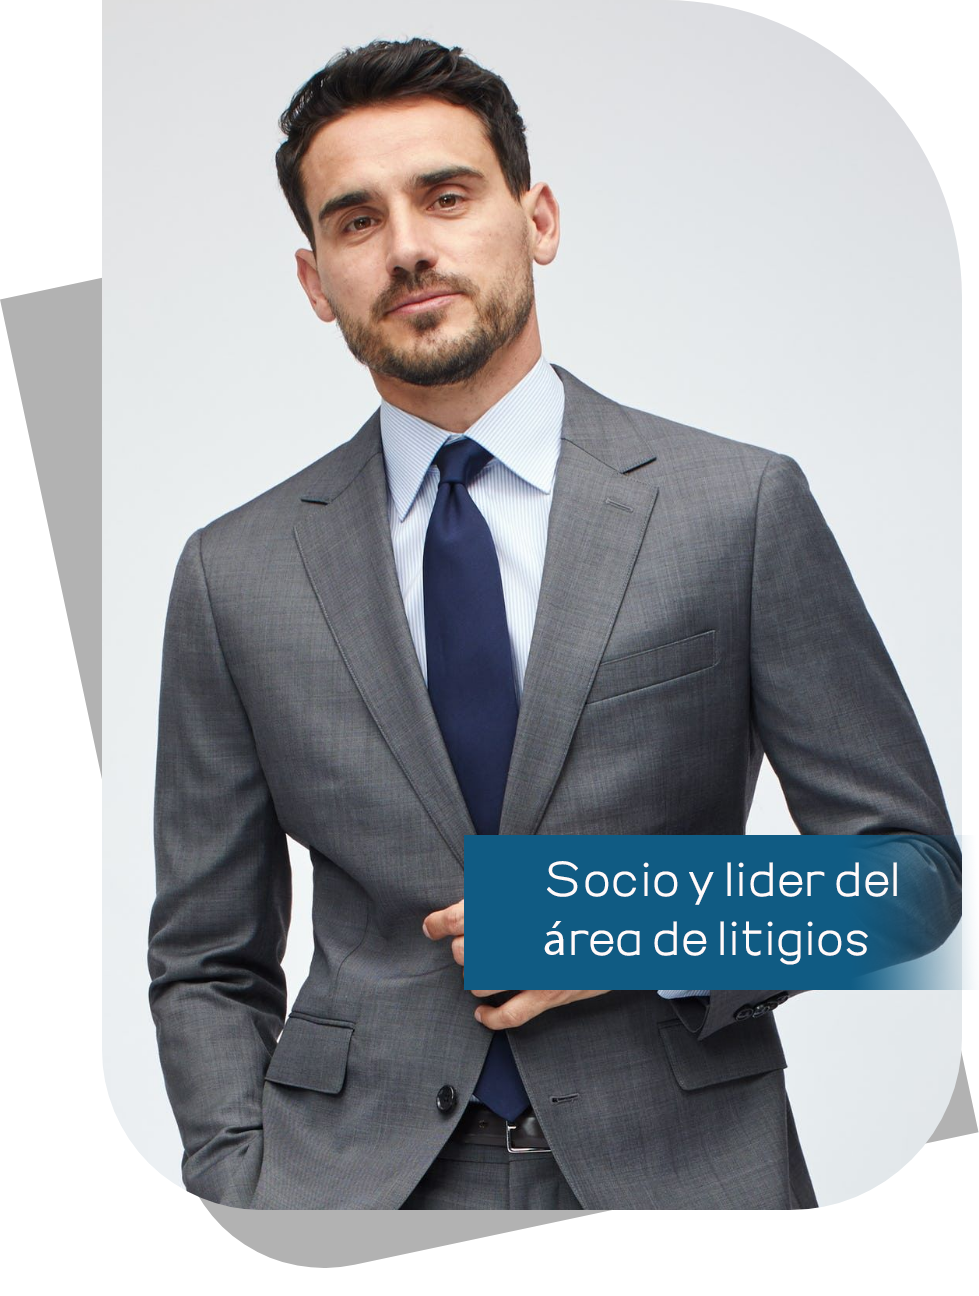
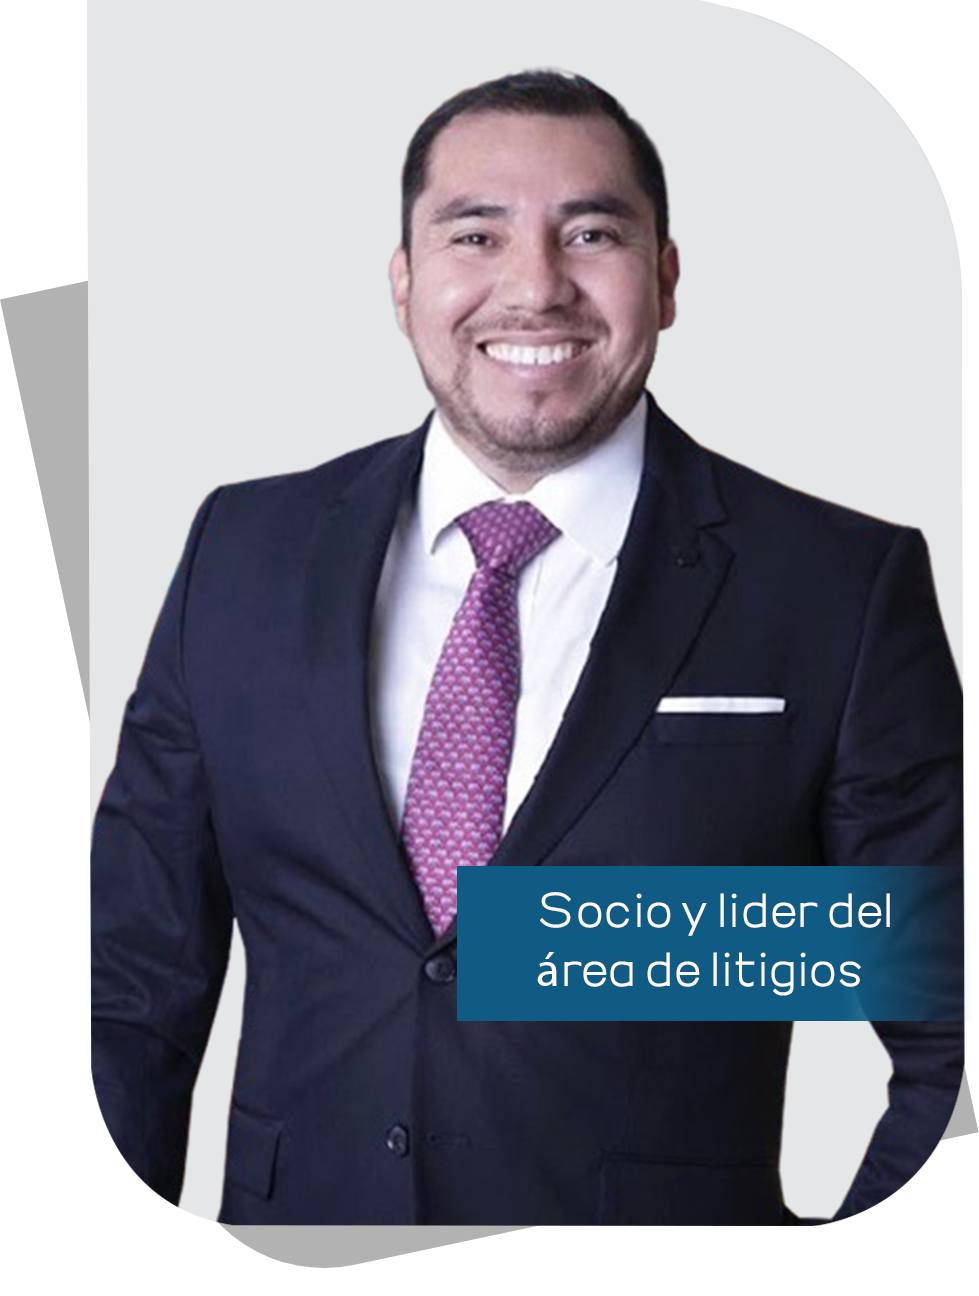
nuevas imagenes

diff --git a/src/app/layout/componentes/carousel-owl-2/carousel-owl-2.component.html b/src/app/layout/componentes/carousel-owl-2/carousel-owl-2.component.html
@@ -1,17 +1,19 @@
 <owl-carousel-o [options]="customOptions">
   <ng-template carouselSlide>
-    <div class="w-full px-4 mb-5">
+    <div class="w-full px-4 md:px-12 mb-5">
       <div class="flex flex-col justify-center">
-        <div class="group h-96 mb-10 w-full [perspective:1000px]">
+        <div
+          class="group h-96 md:h-[400px] mb-10 w-full md:w-[300px] [perspective:1000px]"
+        >
           <div
             class="relative h-full w-full rounded-xl transition-all duration-500"
           >
             <div class="absolute inset-0">
               <img
                 class="h-full w-full rounded-xl object-cover"
-                src="assets/images/socio_1.png"
+                src="assets/images/socio_1.jpg"
               />
-              <h3 class="text-center text-lg sm:text-3xl">Dulmer Malca</h3>
+              <h3 class="text-center text-lg sm:text-3xl">Ximena Samamé</h3>
             </div>
           </div>
         </div>
@@ -19,16 +21,18 @@
     </div>
   </ng-template>
   <ng-template carouselSlide
-    ><div class="w-full px-4 mb-5">
+    ><div class="w-full px-4 md:px-12 mb-5">
       <div class="flex flex-col justify-center">
-        <div class="group h-96 w-full [perspective:1000px]">
+        <div
+          class="group h-96 md:h-[400px] w-full md:w-[300px] [perspective:1000px]"
+        >
           <div
             class="relative h-full w-full rounded-xl transition-all duration-500"
           >
             <div class="absolute inset-0">
               <img
                 class="h-full w-full rounded-xl object-cover"
-                src="assets/images/socio_2.png"
+                src="assets/images/socio_2.jpg"
               />
               <h3 class="text-center text-lg sm:text-3xl">Patricia Kcomt</h3>
             </div>
@@ -38,16 +42,81 @@
     </div>
   </ng-template>
   <ng-template carouselSlide
-    ><div class="w-full px-4 mb-5">
+    ><div class="w-full px-4 md:px-12 mb-5">
       <div class="flex flex-col justify-center">
-        <div class="group h-96 w-full [perspective:1000px]">
+        <div
+          class="group h-96 md:h-[400px] w-full md:w-[300px] [perspective:1000px]"
+        >
           <div
             class="relative h-full w-full rounded-xl transition-all duration-500"
           >
             <div class="absolute inset-0">
               <img
                 class="h-full w-full rounded-xl object-cover"
-                src="assets/images/socio_3.png"
+                src="assets/images/socio_3.jpg"
+              />
+              <h3 class="text-center text-lg sm:text-3xl">Luis Cabrera</h3>
+            </div>
+          </div>
+        </div>
+      </div>
+    </div>
+  </ng-template>
+  <ng-template carouselSlide>
+    <div class="w-full px-4 md:px-12 mb-5">
+      <div class="flex flex-col justify-center">
+        <div
+          class="group h-96 md:h-[400px] w-full md:w-[300px] [perspective:1000px]"
+        >
+          <div
+            class="relative h-full w-full rounded-xl transition-all duration-500"
+          >
+            <div class="absolute inset-0">
+              <img
+                class="h-full w-full rounded-xl object-cover"
+                src="assets/images/socio_4.jpg"
+              />
+              <h3 class="text-center text-lg sm:text-3xl">Lily Valderrama</h3>
+            </div>
+          </div>
+        </div>
+      </div>
+    </div>
+  </ng-template>
+  <ng-template carouselSlide>
+    <div class="w-full px-4 md:px-12 mb-5">
+      <div class="flex flex-col justify-center">
+        <div
+          class="group h-96 md:h-[400px] mb-10 w-full md:w-[300px] [perspective:1000px]"
+        >
+          <div
+            class="relative h-full w-full rounded-xl transition-all duration-500"
+          >
+            <div class="absolute inset-0">
+              <img
+                class="h-full w-full rounded-xl object-cover"
+                src="assets/images/socio_5.jpg"
+              />
+              <h3 class="text-center text-lg sm:text-3xl">Kateleen Urbina</h3>
+            </div>
+          </div>
+        </div>
+      </div>
+    </div>
+  </ng-template>
+  <ng-template carouselSlide>
+    <div class="w-full px-4 md:px-12 mb-5">
+      <div class="flex flex-col justify-center">
+        <div
+          class="group h-96 md:h-[400px] mb-10 w-full md:w-[300px] [perspective:1000px]"
+        >
+          <div
+            class="relative h-full w-full rounded-xl transition-all duration-500"
+          >
+            <div class="absolute inset-0">
+              <img
+                class="h-full w-full rounded-xl object-cover"
+                src="assets/images/socio_6.jpg"
               />
               <h3 class="text-center text-lg sm:text-3xl">Karina Quinde</h3>
             </div>
@@ -57,18 +126,104 @@
     </div>
   </ng-template>
   <ng-template carouselSlide>
-    <div class="w-full px-4 mb-5">
+    <div class="w-full px-4 md:px-12 mb-5">
       <div class="flex flex-col justify-center">
-        <div class="group h-96 w-full [perspective:1000px]">
+        <div
+          class="group h-96 md:h-[400px] mb-10 w-full md:w-[300px] [perspective:1000px]"
+        >
           <div
             class="relative h-full w-full rounded-xl transition-all duration-500"
           >
             <div class="absolute inset-0">
               <img
                 class="h-full w-full rounded-xl object-cover"
-                src="assets/images/socio_4.png"
+                src="assets/images/socio_7.jpg"
               />
-              <h3 class="text-center text-lg sm:text-3xl">Carlos Enríquez</h3>
+              <h3 class="text-center text-lg sm:text-3xl">Gina Pineda</h3>
+            </div>
+          </div>
+        </div>
+      </div>
+    </div>
+  </ng-template>
+  <ng-template carouselSlide>
+    <div class="w-full px-4 md:px-12 mb-5">
+      <div class="flex flex-col justify-center">
+        <div
+          class="group h-96 md:h-[400px] mb-10 w-full md:w-[300px] [perspective:1000px]"
+        >
+          <div
+            class="relative h-full w-full rounded-xl transition-all duration-500"
+          >
+            <div class="absolute inset-0">
+              <img
+                class="h-full w-full rounded-xl object-cover"
+                src="assets/images/socio_8.jpg"
+              />
+              <h3 class="text-center text-lg sm:text-3xl">Fabiola Ruiz</h3>
+            </div>
+          </div>
+        </div>
+      </div>
+    </div>
+  </ng-template>
+  <ng-template carouselSlide>
+    <div class="w-full px-4 md:px-12 mb-5">
+      <div class="flex flex-col justify-center">
+        <div
+          class="group h-96 md:h-[400px] mb-10 w-full md:w-[300px] [perspective:1000px]"
+        >
+          <div
+            class="relative h-full w-full rounded-xl transition-all duration-500"
+          >
+            <div class="absolute inset-0">
+              <img
+                class="h-full w-full rounded-xl object-cover"
+                src="assets/images/socio_9.jpg"
+              />
+              <h3 class="text-center text-lg sm:text-3xl">Erick Valderrama</h3>
+            </div>
+          </div>
+        </div>
+      </div>
+    </div>
+  </ng-template>
+  <ng-template carouselSlide>
+    <div class="w-full px-4 md:px-12 mb-5">
+      <div class="flex flex-col justify-center">
+        <div
+          class="group h-96 md:h-[400px] mb-10 w-full md:w-[300px] [perspective:1000px]"
+        >
+          <div
+            class="relative h-full w-full rounded-xl transition-all duration-500"
+          >
+            <div class="absolute inset-0">
+              <img
+                class="h-full w-full rounded-xl object-cover"
+                src="assets/images/socio_10.jpg"
+              />
+              <h3 class="text-center text-lg sm:text-3xl">Dulmer Malca</h3>
+            </div>
+          </div>
+        </div>
+      </div>
+    </div>
+  </ng-template>
+  <ng-template carouselSlide>
+    <div class="w-full px-4 md:px-12 mb-5">
+      <div class="flex flex-col justify-center">
+        <div
+          class="group h-96 md:h-[400px] mb-10 w-full md:w-[300px] [perspective:1000px]"
+        >
+          <div
+            class="relative h-full w-full rounded-xl transition-all duration-500"
+          >
+            <div class="absolute inset-0">
+              <img
+                class="h-full w-full rounded-xl object-cover"
+                src="assets/images/socio_11.jpg"
+              />
+              <h3 class="text-center text-lg sm:text-3xl">Carlos Enriquez</h3>
             </div>
           </div>
         </div>

diff --git a/src/index.html b/src/index.html
@@ -2,7 +2,7 @@
 <html lang="en">
   <head>
     <meta charset="utf-8" />
-    <title>Legajo</title>
+    <title>VALDERRAMA | ABOGADOS</title>
     <base href="/" />
     <meta name="viewport" content="width=device-width, initial-scale=1" />
     <link rel="icon" type="image/x-icon" href="favicon.ico" />
